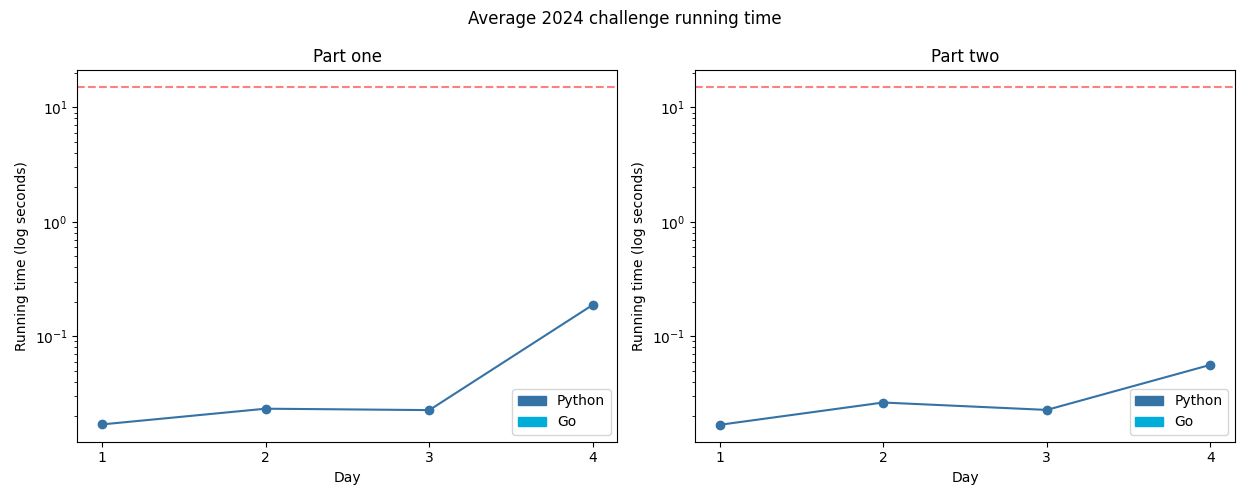
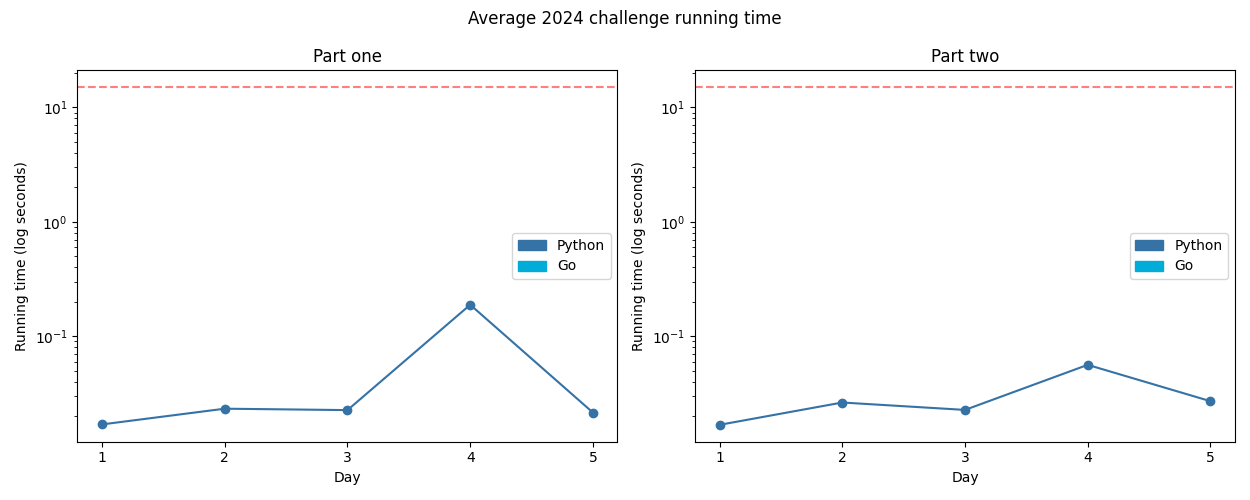
2024.05

diff --git a/challenges/2024/05-printQueue/main.py b/challenges/2024/05-printQueue/main.py
@@ -1,0 +1,91 @@
+import sys
+from collections import namedtuple, defaultdict
+import math
+
+
+OrderingRule = namedtuple("OrderingRule", ["page", "goes_before"])
+
+
+def parse(instr: str) -> tuple[list[OrderingRule], list[list[int]]]:
+    rules, sets = instr.split("\n\n")
+
+    return (
+        [OrderingRule(*map(int, line.split("|"))) for line in rules.splitlines()],
+        [list(map(int, line.split(","))) for line in sets.splitlines()],
+    )
+
+
+def generate_rule_map(rules: list[OrderingRule]) -> dict[int, list[int]]:
+    rule_map = defaultdict(lambda: [])
+    for rule in rules:
+        rule_map[rule.page].append(rule.goes_before)
+    return rule_map
+
+
+def is_pageset_valid(rule_map: dict[int, list[int]], pageset: list[int]) -> bool:
+    for i, v in enumerate(pageset):
+        before = pageset[:i]
+
+        for following_number in rule_map[v]:
+            if following_number in before:
+                return False
+    return True
+
+
+def get_middle_number(x: list[int]) -> int:
+    assert len(x) % 2 == 1, f"{x} has no nice middle point"
+    return x[int((len(x) - 1) / 2)]
+
+
+def one(instr: str):
+    rules, pagesets = parse(instr)
+    rule_map = generate_rule_map(rules)  # for each item, these items should be after it
+
+    acc = 0
+    for pageset in pagesets:
+        if is_pageset_valid(rule_map, pageset):
+            acc += get_middle_number(pageset)
+
+    return acc
+
+
+def two(instr: str):
+    rules, pagesets = parse(instr)
+    rule_map = generate_rule_map(rules)
+
+    inverse_rule_map = defaultdict(
+        lambda: []
+    )  # for each item, these items should be before it
+    for rule in rules:
+        inverse_rule_map[rule.goes_before].append(rule.page)
+
+    acc = 0
+    for pageset in filter(lambda x: not is_pageset_valid(rule_map, x), pagesets):
+        while not is_pageset_valid(rule_map, pageset):
+            for i in range(len(pageset)):
+                for j in range(i + 1, len(pageset)):
+                    iv = pageset[i]
+                    jv = pageset[j]
+
+                    if jv in inverse_rule_map[iv] and i < j:
+                        pageset[i], pageset[j] = pageset[j], pageset[i]
+
+        acc += get_middle_number(pageset)
+
+    return acc
+
+
+def _debug(*args, **kwargs):
+    kwargs["file"] = sys.stderr
+    print(*args, **kwargs)
+
+
+if __name__ == "__main__":
+    if len(sys.argv) < 2 or sys.argv[1] not in ["1", "2"]:
+        print("Missing day argument", file=sys.stderr)
+        sys.exit(1)
+    inp = sys.stdin.read().strip()
+    if sys.argv[1] == "1":
+        print(one(inp))
+    else:
+        print(two(inp))

diff --git a/challenges/2024/README.md b/challenges/2024/README.md
@@ -18,3 +18,4 @@ A day denoted with an asterisk means it has a visualisation.
 | 02 - Red-Nosed Reindeer             | ★ ★   | Python               ||
 | 03 - Mull It Over                   | ★ ★   | Python               | The first instance of Advent of Parsing this year! |
 | 04* - Ceres Search                  | ★ ★   | Python               | When it says a cross, it does not mean a plus. |
+| 05 - Print Queue                    | ★ ★   | Python               | Before you dismiss and idea as being "too simple", make sure you check that it actually wouldn't work! |

diff --git a/challenges/2024/05-printQueue/README.md b/challenges/2024/05-printQueue/README.md
@@ -1,0 +1,1 @@
+# [Day 5: Print Queue](https://adventofcode.com/2024/day/5)
